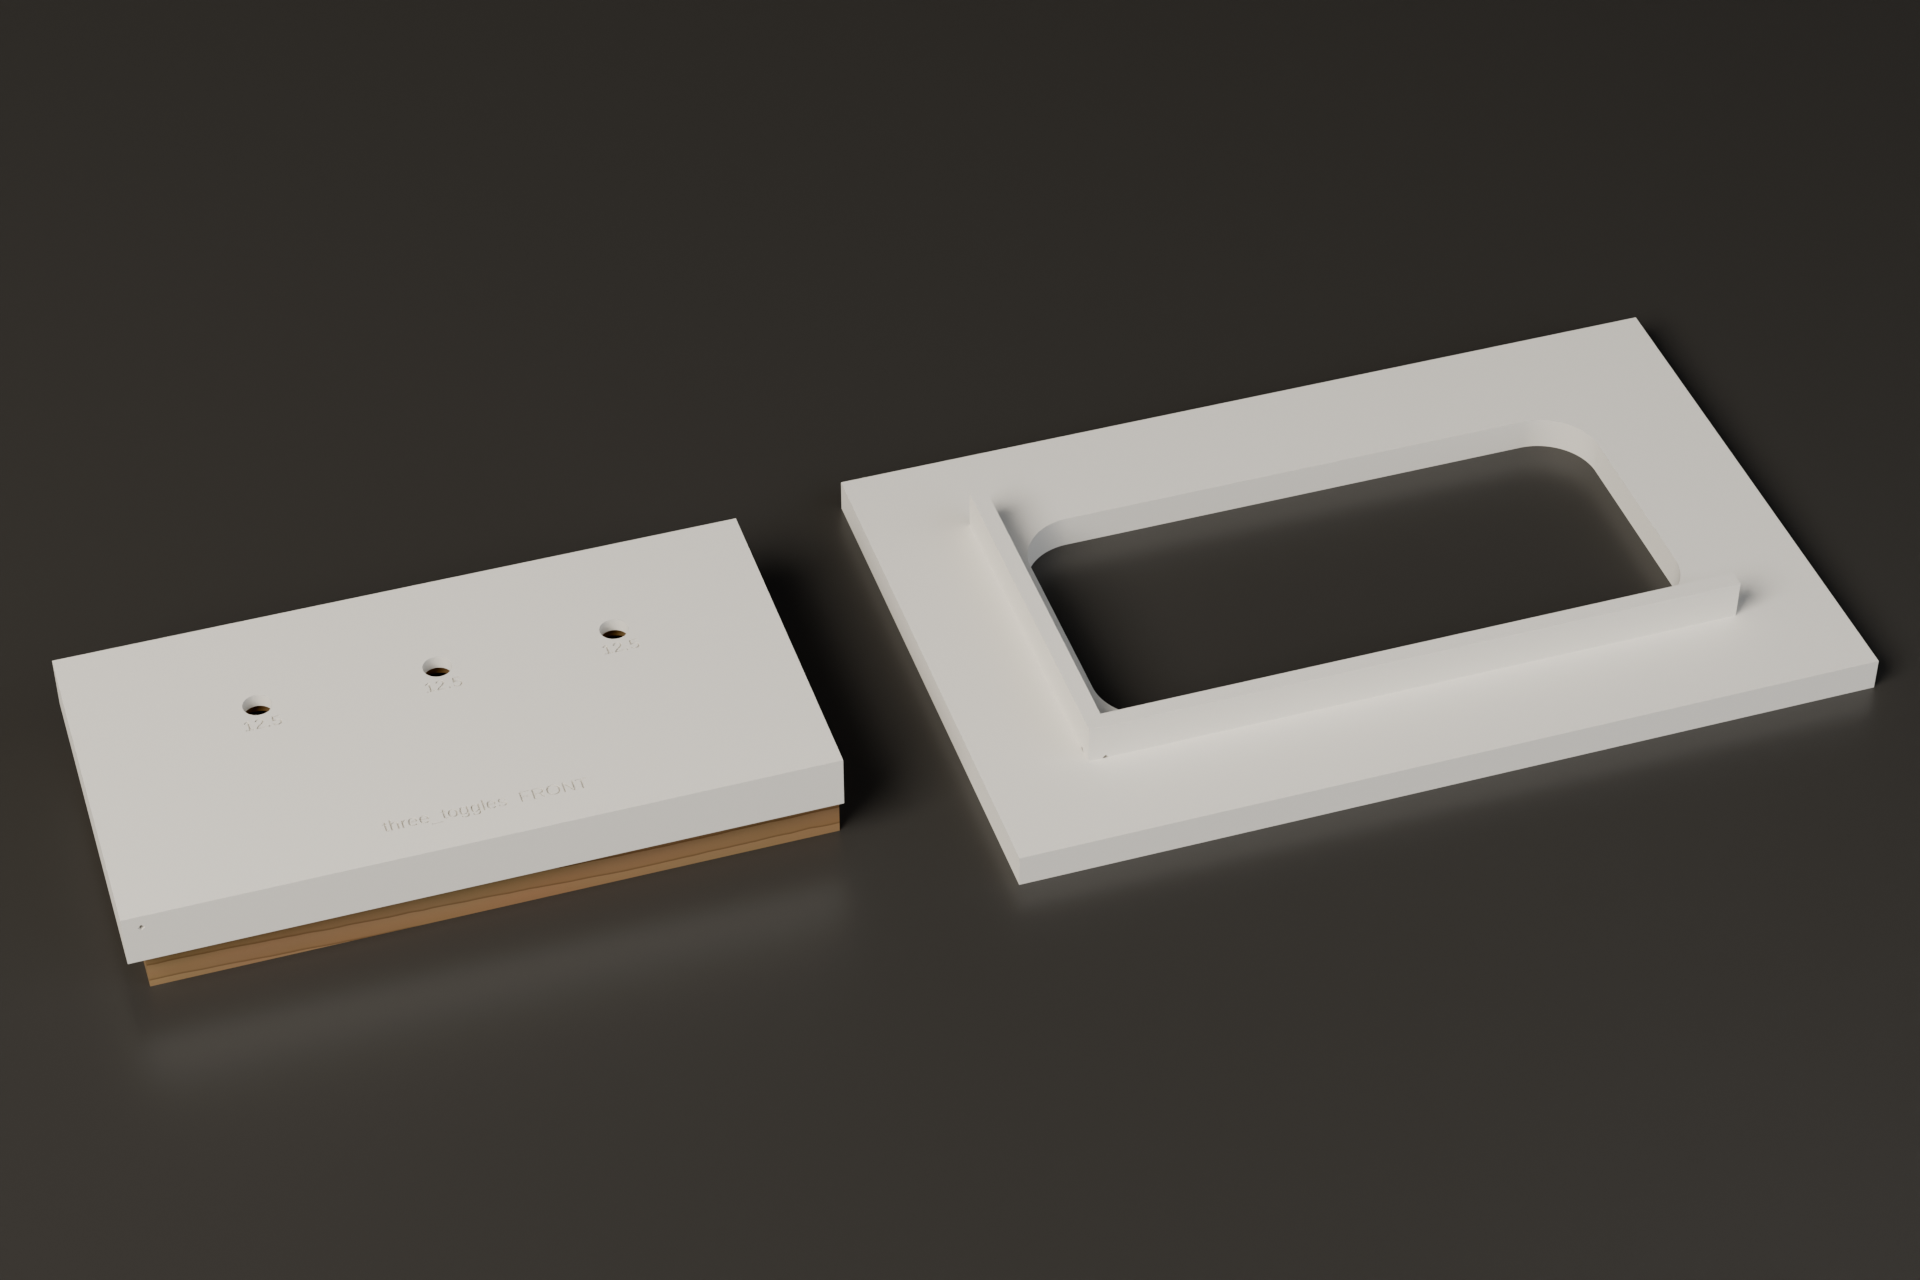
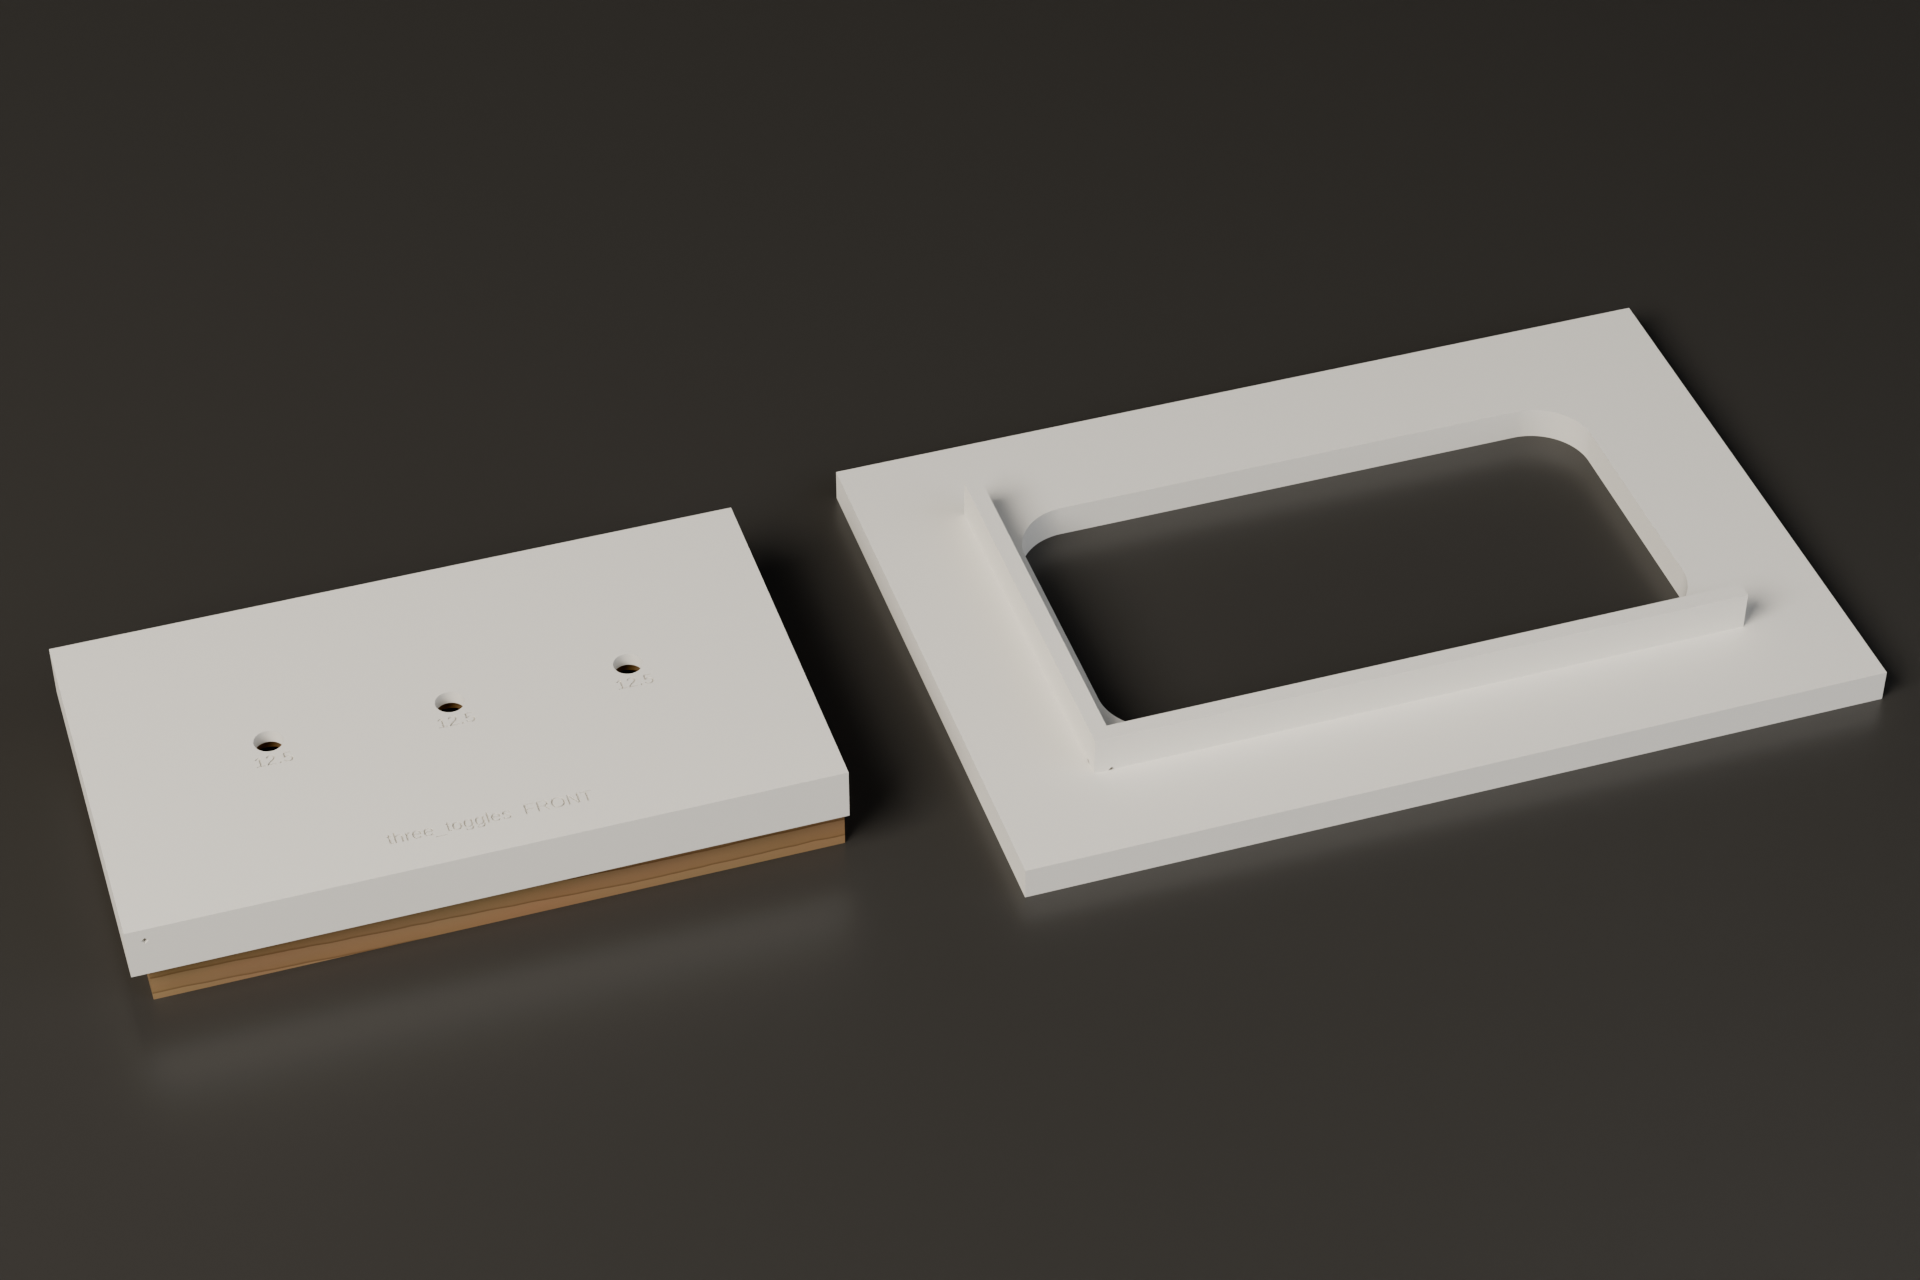
Center the switch row, inline AA holder below it
The switches sit on the board's vertical center line again. The battery
holder now carries the two AA cells end to end (in series by touching,
so contacts only at the two ends) and runs along the band under the
switches; the ESP32 board moves to the band above, antenna toward the
end wall. The board grows from 100 to 110 mm tall so both bands fit.

README renders regenerated.

diff --git a/README.md b/README.md
@@ -36,17 +36,17 @@ A panel is a small JSON file in `panels/`. This is the first one:
 
 ```json
 {
-  "description": "First panel: an oak slab with three full size toggles in a row, on two AA cells",
-  "board": {"w": 190, "h": 100, "t": 27, "chamfer": 2, "material": "oak"},
+  "description": "First panel: an oak slab with three full size toggles centered in a row, on two AA cells",
+  "board": {"w": 190, "h": 110, "t": 27, "chamfer": 2, "material": "oak"},
   "cavity": {"face_t": 4, "rim": 15, "r": 8},
   "components": [
-    {"id": "left", "type": "toggle_12mm", "x": 45, "y": 65},
-    {"id": "middle", "type": "toggle_12mm", "x": 95, "y": 65},
-    {"id": "right", "type": "toggle_12mm", "x": 145, "y": 65}
+    {"id": "left", "type": "toggle_12mm", "x": 45, "y": 55},
+    {"id": "middle", "type": "toggle_12mm", "x": 95, "y": 55},
+    {"id": "right", "type": "toggle_12mm", "x": 145, "y": 55}
   ],
   "internals": [
-    {"id": "battery", "type": "battery_2aa_holder", "x": 62, "y": 35},
-    {"id": "esp", "type": "esp32_devboard", "x": 135, "y": 34}
+    {"id": "battery", "type": "battery_2aa_holder", "x": 95, "y": 30},
+    {"id": "esp", "type": "esp32_devboard", "x": 135, "y": 79}
   ]
 }
 ```

diff --git a/TODO.md b/TODO.md
@@ -20,8 +20,9 @@
 - [ ] Print and test the first panel's templates on scrap
 - [x] Room in the cavity for the ESP32 board and battery, checked
 - [x] Antenna keepout check
-- [x] Battery powered on two AA cells, printed holder screwed in from
-      the cavity, screw depth checked against the face
+- [x] Battery powered on two AA cells, printed inline holder screwed in
+      from the cavity under the switch row, screw depth checked against
+      the face
 - [x] Radio: Zigbee sleepy end device on an ESP32-H2 (docs/CONCEPT.md)
 - [ ] Measure on an ESP32-H2 dev kit with ESPHome zigbee: sleep current
       and flip to light latency (target under 300 ms). Do this before the

diff --git a/.claude/skills/panel-config/SKILL.md b/.claude/skills/panel-config/SKILL.md
@@ -17,8 +17,8 @@ python3 scripts/regen_all.py <name>       # templates and previews into build/pa
   "description": "what this panel is",
   "board": {"w": 180, "h": 90, "t": 27, "chamfer": 2, "material": "oak"},
   "cavity": {"face_t": 4, "rim": 18, "r": 8},
-  "components": [{"id": "left", "type": "toggle_12mm", "x": 45, "y": 65}],
-  "internals": [{"id": "esp", "type": "esp32_devboard", "x": 130, "y": 32, "rot": 0}]
+  "components": [{"id": "left", "type": "toggle_12mm", "x": 45, "y": 55}],
+  "internals": [{"id": "esp", "type": "esp32_devboard", "x": 135, "y": 79, "rot": 0}]
 }
 ```
 
